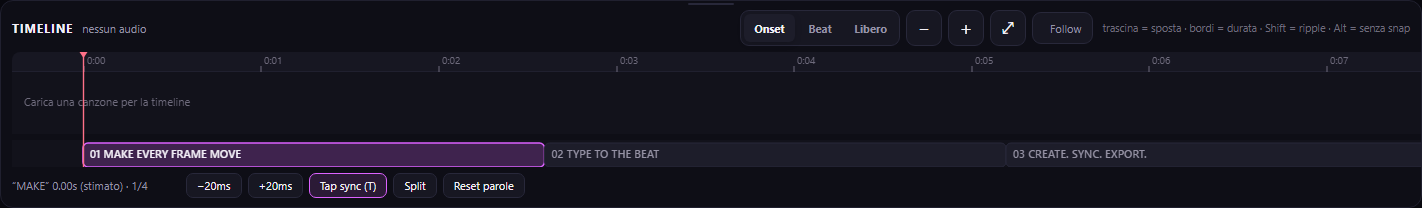
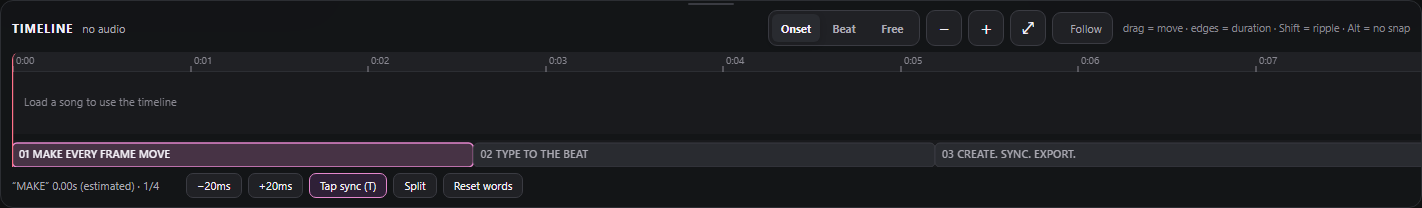
Expand Phrasync README and refresh screenshots

diff --git a/scripts/capture_readme.py b/scripts/capture_readme.py
@@ -1,4 +1,4 @@
-"""Capture the four README screenshots from a running local Phrasync instance."""
+"""Capture README screenshots from a running local Phrasync instance."""
 
 from __future__ import annotations
 
@@ -115,6 +115,10 @@ def main() -> None:
             time.sleep(2.0)
             if not devtools.evaluate("Boolean(document.querySelector('#stage'))"):
                 raise RuntimeError("Phrasync did not load")
+            if devtools.evaluate("Boolean(document.querySelector('#onboardingDialog')?.open)"):
+                devtools.screenshot(args.out / "first-run.png", "#onboardingDialog .modal-card")
+                devtools.evaluate("document.querySelector('#onboardingContinue').click()")
+                time.sleep(0.2)
             devtools.screenshot(args.out / "editor-overview.png")
             devtools.screenshot(args.out / "kinetic-preview.png", "#stageShell")
             devtools.screenshot(args.out / "timeline-editor.png", "#timelineDock")

diff --git a/README.md b/README.md
@@ -2,26 +2,52 @@
 
 # Phrasync
 
-Phrasync helps you turn songs into lyric videos and long recordings into subtitles. You can correct the words and their timing, choose a look, preview the result, and export an MP4. Your media and transcription stay on your computer; the speech model is downloaded once when you first need it.
+Phrasync is a free, local studio for lyric videos and subtitles. Bring in a song or video, transcribe it on your computer, correct the words and their timing, choose how it looks, and export an MP4. Your media is not uploaded to a Phrasync service.
 
-Phrasync is free and open source, made by [jaydemks](https://github.com/jaydemks). It began as a local browser editor; the Windows app packages the same editor in its own window for simpler installation and Windows integration. You can use or modify the source in either mode. The Windows app is available on the [Microsoft Store](https://apps.microsoft.com/detail/9NF9JBG2PKHX). Store updates can arrive after the matching source release while Microsoft completes certification.
+Created by [jaydemks](https://github.com/jaydemks). Watch an [early demo](docs/media/phrasync-demo.mp4) or see the current editor below.
 
-## What has changed
+![Phrasync editor with preview, lyric cues and timeline](docs/media/editor-overview.png)
 
-Since the first GitHub release, Phrasync has gained a proper Windows app window, an English/Italian interface, clearer model-download progress, and automatic NVIDIA GPU support where available. The editor now handles longer subtitle projects, offers richer 3D scenes (including **Lost in the Ocean**), and gives you more control over lyric timing and text perspective.
+## What you can make
 
-Recent fixes also make MP4 export easier: choose a destination before rendering, open either the chosen or default renders folder, save the finished video, and render Japanese text with a suitable font. Version **0.4.3** addresses unresponsive controls after an in-place Store update and adds an in-app update check plus a diagnostics panel. **0.4.4** fixes manually added lyrics disappearing when they overlap transcribed lines.
+**Lyric videos:** Import a song, transcribe vocals locally or paste/import your own lyrics, then arrange phrases and individual words against the waveform. Choose kinetic 2D text or 3D text that moves through the scene. Use a still image, looping video, reactive background, or an Odyssey 3D world. The worlds include Japan, Italy, China, the United States, and **Lost in the Ocean**, with camera movement, time of day, weather, and art-direction controls.
 
-The 0.4.4 source is available here now; its Store package will follow after 0.4.3 completes certification. If you installed an earlier Store version, uninstall it **once** and install 0.4.3 or later from the Store to clear stale app data. Back up any important projects first. Later Store updates can be checked from **Settings → App updates** inside Phrasync. The update-installation flow still needs verification against a subsequent Store release.
+**Subtitled videos:** Import video or audio, generate editable captions, and burn them into an MP4. A video can serve as the transcription source, preview picture, and final video/audio source in one workflow. The import and audio-analysis path supports long-form projects and files up to 16 GB; actual processing and export time depend on your hardware, codec, and available disk space. Browser preview works most reliably with MP4 (H.264/AAC) or WebM.
 
-For individual changes and known limits, see [release notes](RELEASE_NOTES.md).
+In both modes you can:
 
-## Run from source
+- Correct text, add or remove cues, and adjust word and phrase timing with dragging, snapping, nudging, tap sync, and auto-align. Manually added lines remain visible even when they overlap a transcription (fixed in 0.4.4).
+- Use local Faster-Whisper transcription, automatic language detection, and optional NVIDIA CUDA acceleration. The interface is in English by default, with an Italian toggle.
+- Import lyrics or captions, extract text from an image with OCR, and export subtitle files including SRT, WebVTT, LRC, word-level LRC, and ASS karaoke.
+- Preview your work, save and reload a local project, run the preflight check, and export H.264 MP4. In the Windows app you can choose a render folder before export and open either that folder or the default one afterward.
+- Open **Diagnostics** to inspect errors and relevant Windows/hardware details before sharing a support report.
 
-On Windows, install Python 3.11 or 3.12, clone this repository, and run `run_windows.bat`. The first launch sets up the local environment. To use the same editor in your browser instead, run `.venv\Scripts\python.exe app.py --external-browser` after setup. Linux and macOS launch scripts are included, but the current desktop release is tested on Windows.
+The editor, timeline, and first-run explanation are shown here:
 
-Phrasync uses local Faster-Whisper transcription and FFmpeg for export. Downloading dependencies and speech models needs an internet connection; editing and rendering do not require a cloud account. Transcription and alignment can still need human correction, especially with expressive vocals or difficult audio.
+| Preview | Timeline | First run |
+| --- | --- | --- |
+| ![Lyric preview](docs/media/kinetic-preview.png) | ![Timing timeline](docs/media/timeline-editor.png) | ![Model download explanation](docs/media/first-run.png) |
+
+Recent releases made model downloads easier to follow and the Windows preview smoother; fixed MP4 saving, render-folder selection, and Japanese text output; added diagnostics and Store-update controls; and, in **0.4.4**, fixed manually added lyrics disappearing behind transcribed lines. The [release notes](RELEASE_NOTES.md) have the details.
+
+## Get Phrasync
+
+**Microsoft Store:** [Install the free Windows app](https://apps.microsoft.com/detail/9NF9JBG2PKHX). Phrasync has been available there across several releases. The Store build packages the same local editor in a dedicated window with Windows file dialogs. Version 0.4.3 adds an in-app Store update check. Certification means the Store version can temporarily lag behind this repository; check the Store listing for the version currently offered.
+
+**GitHub source:** The current source release is [v0.4.4](https://github.com/jaydemks/phrasync/releases/tag/v0.4.4). On Windows, install [Python 3.11 or 3.12](https://www.python.org/downloads/) with its `py` launcher, clone or download the repository, and run `run_windows.bat`. The first launch installs dependencies. For the same editor in your local browser, run `.venv\Scripts\python.exe app.py --external-browser` after setup. The GitHub release has source code, not a ready-to-install Windows package. Linux and macOS launch scripts are included but are not release-tested like Windows.
+
+Phrasync began as a local browser editor. The Windows app is a more convenient way to install and use it; both modes share the same code and local engine. You can modify the open-source project and run your changes in either mode. You cannot directly edit the installed Store package.
+
+If you have a Store installation older than 0.4.3, back up important projects and reinstall once when 0.4.3 or later becomes available; this clears stale app data that could leave controls unresponsive after an in-place update. Subsequent Store builds can check for updates under **Settings → App updates**. That installation flow still needs confirmation with a later live Store update.
+
+## First run and practical limits
+
+The first transcription downloads the selected speech model to your computer. Phrasync shows its progress, size, and estimated time remaining; later uses of that model work from the local copy. Internet access is needed to install dependencies and download a new model, not to upload your media. Smaller models run with less memory; a compatible NVIDIA GPU speeds up transcription, while CPU mode also works. MP4 rendering, particularly long or high-resolution video, can still take substantial time and disk space.
+
+Automatic transcription and alignment are starting points, not a replacement for listening and checking the result—especially with expressive singing, effects, or mixed languages. Saved project files refer to local media rather than embedding every source file, so move the media too if you move a project to another computer.
+
+To run the automated tests from a Windows source checkout, use `scripts/run_tests_windows.bat`.
 
 ## License
 
-The code is licensed under [Apache-2.0](LICENSE). Keep [NOTICE](NOTICE) and the applicable [third-party notices](THIRD_PARTY_NOTICES.md) when redistributing the software. Videos you create remain yours, subject to your rights in the music, footage, images, and fonts you use.
+Phrasync is open source under [Apache-2.0](LICENSE). Preserve [NOTICE](NOTICE) and applicable [third-party notices](THIRD_PARTY_NOTICES.md) when redistributing it. Videos you create remain yours, subject to your rights in the music, lyrics, footage, images, and fonts you use.
